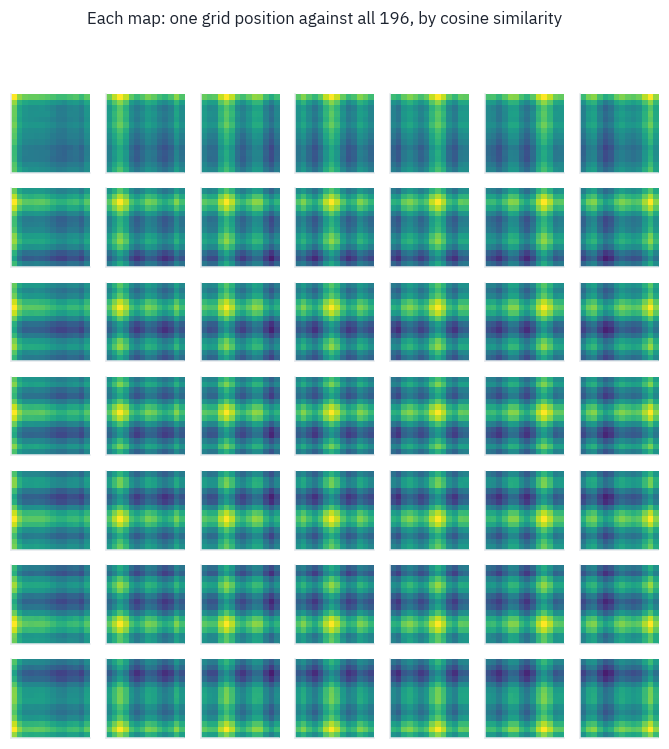
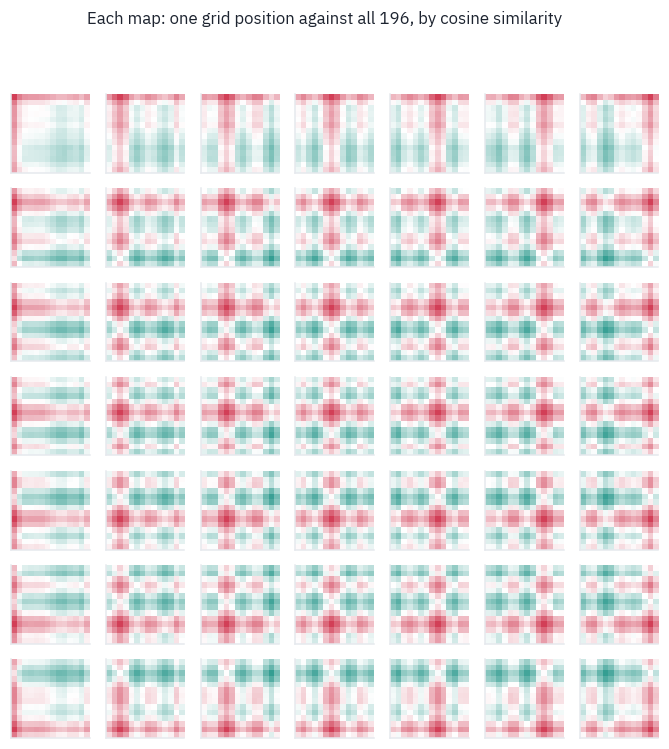
Lessons 9 and 11 with their reruns: every map in the course's colours, the memory and EuroSAT tables labelled; lesson 9's cover plates restored

diff --git a/_posts/2026-11-09-transformer-architectures-11-vit.md b/_posts/2026-11-09-transformer-architectures-11-vit.md
@@ -82,6 +82,7 @@ import time
 import urllib.request
 
 import matplotlib.pyplot as plt
+from matplotlib.colors import LinearSegmentedColormap, to_rgb
 import numpy as np
 import pandas as pd
 import torch
@@ -170,7 +171,7 @@ axes[0].imshow(photos["bear"])
 axes[0].set_title(f"original, {photos['bear'].width}×{photos['bear'].height}", fontsize=10)
 axes[1].imshow((x.permute(1, 2, 0) * STD + MEAN).clamp(0, 1))
 axes[1].set_title("resized to 224×224", fontsize=10)
-for channel, color in zip(range(3), ["#D23F57", "#0F8C7E", "#4C6FD8"]):
+for channel, color in zip(range(3), [COLORS["dec"], COLORS["enc"], COLORS["att"]]):
     axes[2].hist(
         x[channel].flatten(), bins=60, color=color, alpha=0.6, label="RGB"[channel]
     )
@@ -270,7 +271,8 @@ ax.imshow(tile, interpolation="nearest")
 ax.set_title(f"patch {k}: row {row}, column {col}", fontsize=10)
 ax.axis("off")
 ax = fig.add_axes([0.2, 0.25, 0.79, 0.5])
-ax.imshow(patches[k][None], aspect="auto", cmap="gray", interpolation="nearest")
+greys = LinearSegmentedColormap.from_list("greys", [COLORS["ink"], COLORS["card"]])
+ax.imshow(patches[k][None], aspect="auto", cmap=greys, interpolation="nearest")
 for edge in [256, 512]:
     ax.axvline(edge - 0.5, color=COLORS["dec"], linewidth=1.5)
 ax.set_yticks([])
@@ -354,9 +356,12 @@ sequence = sequence + positions[0]
 print("class token:", tuple(cls_token.shape), " positions:", tuple(positions.shape))
 print("the sequence the encoder reads:", tuple(sequence.shape))
 
+# negative numbers in teal, positive in rose, zero white
+ends = [COLORS["enc"], COLORS["card"], COLORS["dec"]]
+signed = LinearSegmentedColormap.from_list("signed", ends)
 fig, ax = plt.subplots(figsize=(11, 2.6))
 ax.imshow(
-    sequence.T[:96], aspect="auto", cmap="RdBu_r", vmin=-3, vmax=3, interpolation="nearest"
+    sequence.T[:96], aspect="auto", cmap=signed, vmin=-3, vmax=3, interpolation="nearest"
 )
 ax.set_xlabel("position in the sequence: 0 is the class token, 1 to 196 the patches")
 ax.set_ylabel("first 96 of 768")
@@ -616,7 +621,7 @@ fig, axes = plt.subplots(len(picked), len(picked), figsize=(7.6, 7.6))
 for a, i in enumerate(picked):
     for b, j in enumerate(picked):
         axes[a, b].imshow(
-            similarity[i, j], cmap="viridis", vmin=-1, vmax=1, interpolation="nearest"
+            similarity[i, j], cmap=signed, vmin=-1, vmax=1, interpolation="nearest"
         )
         axes[a, b].set_xticks([])
         axes[a, b].set_yticks([])
@@ -628,7 +633,7 @@ plt.show()
 
 <img class="tfs-output" src="/assets/posts/arch/11/output-08.png" alt="Output of the code above" loading="lazy">
 
-Every map has a bright spot exactly where its position is, a glow around it, and bright bands along its own row and column.
+Every map is strongest exactly where its position is, with a halo around it and bands of rose along its own row and column.
 
 The model rediscovered the two-dimensional grid from a one-dimensional list of 196 slots, simply because knowing which patches are neighbours, and which share a row or a column, helps it classify. The ViT paper tried position embeddings designed for two dimensions and found no gain; this picture is why.
 
@@ -689,12 +694,15 @@ for block in vit.blocks:
     block.attn.keep = False
 maps = rollout[:, 0, 1:].reshape(n, grid, grid)
 
+violet = to_rgb(COLORS["att"])
+# from clear to violet, laid over the photo
+glow = LinearSegmentedColormap.from_list("glow", [(*violet, 0.0), (*violet, 0.9)])
 fig, axes = plt.subplots(1, n, figsize=(13, 2.9))
 for k, photo in enumerate(photos.values()):
     heat = (maps[k] / maps[k].max()).numpy()
-    axes[k].imshow(photo.resize((SIZE, SIZE)))
+    axes[k].imshow(photo.resize((SIZE, SIZE)).convert("L"), cmap=greys, alpha=0.75)
     axes[k].imshow(
-        heat, cmap="magma", alpha=0.55, extent=(0, SIZE, SIZE, 0), interpolation="bilinear"
+        heat, cmap=glow, extent=(0, SIZE, SIZE, 0), interpolation="bilinear"
     )
     axes[k].set_title(labels[ours[k].argmax().item()], fontsize=10)
     axes[k].axis("off")
@@ -703,7 +711,7 @@ plt.show()
 
 <img class="tfs-output" src="/assets/posts/arch/11/output-10.png" alt="Output of the code above" loading="lazy">
 
-The bright regions are the bear's head and the fish, the shuttle's nose rather than its plume, the orca's body, the hummingbird. The model was never told where the objects are; its answer simply rests on them.
+The violet regions are the bear's head and the fish, the shuttle's nose rather than its plume, the orca's body, the hummingbird. The model was never told where the objects are; its answer simply rests on them.
 
 Rollout is a rough tool, a product of averages that ignores the MLPs, but it is cheap and often right about where to look.
 
@@ -831,13 +839,14 @@ print("one map per head:", tuple(heads.shape))
 one map per head: (5, 6, 28, 28)</code></pre>
 
 ```python
+shades = LinearSegmentedColormap.from_list("shades", [COLORS["card"], COLORS["att"]])
 show = ["bear", "shuttle", "orca", "hummingbird"]
 fig, axes = plt.subplots(len(show), heads.shape[1] + 1, figsize=(13, 2.1 * len(show)))
 for r, name in enumerate(show):
     k = list(photos).index(name)
     axes[r, 0].imshow(photos[name].resize((SIZE, SIZE)))
     for h in range(heads.shape[1]):
-        axes[r, h + 1].imshow(heads[k, h], cmap="inferno", interpolation="nearest")
+        axes[r, h + 1].imshow(heads[k, h], cmap=shades, interpolation="nearest")
         if r == 0:
             axes[r, h + 1].set_title(f"head {h}", fontsize=10)
     for ax in axes[r]:
@@ -1128,7 +1137,7 @@ accuracy.columns = [f"{n:,} labels per class" for n in accuracy.columns]
 table(accuracy.reset_index(), digits=3)
 ```
 
-<div class="tfs-table-wrap"><table class="tfs-table" style="border-collapse:collapse;font-family:'IBM Plex Sans', -apple-system, 'Segoe UI', Roboto, Helvetica, Arial, sans-serif;font-size:13.5px;line-height:1.45;margin:4px 0 8px;"><thead><tr><th style="padding:7px 14px;border-bottom:2px solid #B9C0CB;font-weight:600;color:#5B6575;font-size:12px;letter-spacing:0.02em;text-align:left;">learner</th><th style="padding:7px 14px;border-bottom:2px solid #B9C0CB;font-weight:600;color:#5B6575;font-size:12px;letter-spacing:0.02em;text-align:right;">10 labels per class</th><th style="padding:7px 14px;border-bottom:2px solid #B9C0CB;font-weight:600;color:#5B6575;font-size:12px;letter-spacing:0.02em;text-align:right;">100 labels per class</th><th style="padding:7px 14px;border-bottom:2px solid #B9C0CB;font-weight:600;color:#5B6575;font-size:12px;letter-spacing:0.02em;text-align:right;">1,620 labels per class</th></tr></thead><tbody><tr><td style="padding:7px 14px;border-bottom:1px solid #E6E9EE;vertical-align:top;text-align:left;max-width:460px;white-space:normal;">ViT-B/16 pretrained</td><td style="padding:7px 14px;border-bottom:1px solid #E6E9EE;vertical-align:top;text-align:right;font-variant-numeric:tabular-nums;max-width:460px;white-space:normal;">0.914</td><td style="padding:7px 14px;border-bottom:1px solid #E6E9EE;vertical-align:top;text-align:right;font-variant-numeric:tabular-nums;max-width:460px;white-space:normal;">0.970</td><td style="padding:7px 14px;border-bottom:1px solid #E6E9EE;vertical-align:top;text-align:right;font-variant-numeric:tabular-nums;max-width:460px;white-space:normal;">0.988</td></tr><tr><td style="padding:7px 14px;border-bottom:1px solid #E6E9EE;vertical-align:top;text-align:left;max-width:460px;white-space:normal;">small ViT</td><td style="padding:7px 14px;border-bottom:1px solid #E6E9EE;vertical-align:top;text-align:right;font-variant-numeric:tabular-nums;max-width:460px;white-space:normal;">0.586</td><td style="padding:7px 14px;border-bottom:1px solid #E6E9EE;vertical-align:top;text-align:right;font-variant-numeric:tabular-nums;max-width:460px;white-space:normal;">0.815</td><td style="padding:7px 14px;border-bottom:1px solid #E6E9EE;vertical-align:top;text-align:right;font-variant-numeric:tabular-nums;max-width:460px;white-space:normal;">0.932</td></tr><tr><td style="padding:7px 14px;border-bottom:1px solid #E6E9EE;vertical-align:top;text-align:left;max-width:460px;white-space:normal;">small CNN</td><td style="padding:7px 14px;border-bottom:1px solid #E6E9EE;vertical-align:top;text-align:right;font-variant-numeric:tabular-nums;max-width:460px;white-space:normal;">0.740</td><td style="padding:7px 14px;border-bottom:1px solid #E6E9EE;vertical-align:top;text-align:right;font-variant-numeric:tabular-nums;max-width:460px;white-space:normal;">0.920</td><td style="padding:7px 14px;border-bottom:1px solid #E6E9EE;vertical-align:top;text-align:right;font-variant-numeric:tabular-nums;max-width:460px;white-space:normal;">0.979</td></tr><tr><td style="padding:7px 14px;border-bottom:1px solid #E6E9EE;vertical-align:top;text-align:left;max-width:460px;white-space:normal;">DINOv2 + linear probe</td><td style="padding:7px 14px;border-bottom:1px solid #E6E9EE;vertical-align:top;text-align:right;font-variant-numeric:tabular-nums;max-width:460px;white-space:normal;">0.845</td><td style="padding:7px 14px;border-bottom:1px solid #E6E9EE;vertical-align:top;text-align:right;font-variant-numeric:tabular-nums;max-width:460px;white-space:normal;">0.926</td><td style="padding:7px 14px;border-bottom:1px solid #E6E9EE;vertical-align:top;text-align:right;font-variant-numeric:tabular-nums;max-width:460px;white-space:normal;">0.966</td></tr></tbody></table></div>
+<div class="tfs-table-wrap"><table class="tfs-table" style="border-collapse:collapse;font-family:'IBM Plex Sans', -apple-system, 'Segoe UI', Roboto, Helvetica, Arial, sans-serif;font-size:13.5px;line-height:1.45;margin:4px 0 8px;"><thead><tr><th style="padding:7px 14px;border-bottom:2px solid #B9C0CB;font-weight:600;color:#5B6575;font-size:12px;letter-spacing:0.02em;text-align:left;">learner</th><th style="padding:7px 14px;border-bottom:2px solid #B9C0CB;font-weight:600;color:#5B6575;font-size:12px;letter-spacing:0.02em;text-align:right;">10 labels per class</th><th style="padding:7px 14px;border-bottom:2px solid #B9C0CB;font-weight:600;color:#5B6575;font-size:12px;letter-spacing:0.02em;text-align:right;">100 labels per class</th><th style="padding:7px 14px;border-bottom:2px solid #B9C0CB;font-weight:600;color:#5B6575;font-size:12px;letter-spacing:0.02em;text-align:right;">1,620 labels per class</th></tr></thead><tbody><tr><td style="padding:7px 14px;border-bottom:1px solid #E6E9EE;vertical-align:top;text-align:left;max-width:460px;white-space:normal;">ViT-B/16 pretrained</td><td style="padding:7px 14px;border-bottom:1px solid #E6E9EE;vertical-align:top;text-align:right;font-variant-numeric:tabular-nums;max-width:460px;white-space:normal;">0.916</td><td style="padding:7px 14px;border-bottom:1px solid #E6E9EE;vertical-align:top;text-align:right;font-variant-numeric:tabular-nums;max-width:460px;white-space:normal;">0.970</td><td style="padding:7px 14px;border-bottom:1px solid #E6E9EE;vertical-align:top;text-align:right;font-variant-numeric:tabular-nums;max-width:460px;white-space:normal;">0.988</td></tr><tr><td style="padding:7px 14px;border-bottom:1px solid #E6E9EE;vertical-align:top;text-align:left;max-width:460px;white-space:normal;">small ViT</td><td style="padding:7px 14px;border-bottom:1px solid #E6E9EE;vertical-align:top;text-align:right;font-variant-numeric:tabular-nums;max-width:460px;white-space:normal;">0.586</td><td style="padding:7px 14px;border-bottom:1px solid #E6E9EE;vertical-align:top;text-align:right;font-variant-numeric:tabular-nums;max-width:460px;white-space:normal;">0.815</td><td style="padding:7px 14px;border-bottom:1px solid #E6E9EE;vertical-align:top;text-align:right;font-variant-numeric:tabular-nums;max-width:460px;white-space:normal;">0.932</td></tr><tr><td style="padding:7px 14px;border-bottom:1px solid #E6E9EE;vertical-align:top;text-align:left;max-width:460px;white-space:normal;">small CNN</td><td style="padding:7px 14px;border-bottom:1px solid #E6E9EE;vertical-align:top;text-align:right;font-variant-numeric:tabular-nums;max-width:460px;white-space:normal;">0.740</td><td style="padding:7px 14px;border-bottom:1px solid #E6E9EE;vertical-align:top;text-align:right;font-variant-numeric:tabular-nums;max-width:460px;white-space:normal;">0.920</td><td style="padding:7px 14px;border-bottom:1px solid #E6E9EE;vertical-align:top;text-align:right;font-variant-numeric:tabular-nums;max-width:460px;white-space:normal;">0.979</td></tr><tr><td style="padding:7px 14px;border-bottom:1px solid #E6E9EE;vertical-align:top;text-align:left;max-width:460px;white-space:normal;">DINOv2 + linear probe</td><td style="padding:7px 14px;border-bottom:1px solid #E6E9EE;vertical-align:top;text-align:right;font-variant-numeric:tabular-nums;max-width:460px;white-space:normal;">0.845</td><td style="padding:7px 14px;border-bottom:1px solid #E6E9EE;vertical-align:top;text-align:right;font-variant-numeric:tabular-nums;max-width:460px;white-space:normal;">0.926</td><td style="padding:7px 14px;border-bottom:1px solid #E6E9EE;vertical-align:top;text-align:right;font-variant-numeric:tabular-nums;max-width:460px;white-space:normal;">0.966</td></tr></tbody></table></div>
 
 ```python
 fig, ax = plt.subplots(figsize=(7.2, 3.8))
@@ -1174,7 +1183,7 @@ for t, p in zip(test_labels.tolist(), best.tolist()):
     confusion[t, p] += 1
 confusion = confusion / confusion.sum(1, keepdim=True)
 fig, ax = plt.subplots(figsize=(6.2, 5.4))
-ax.imshow(confusion, cmap="Purples", vmin=0, vmax=1)
+ax.imshow(confusion, cmap=shades, vmin=0, vmax=1)
 ax.set_xticks(range(10), classes, rotation=60, fontsize=8)
 ax.set_yticks(range(10), classes, fontsize=8)
 ax.set_xlabel("predicted")
@@ -1219,7 +1228,7 @@ plt.show()
 
 The mistakes are few, and many of them involve herbaceous vegetation, taken for pasture, for crops or for forest: scrub, meadow and young trees are the same green-brown texture at this scale.
 
-Another kind is a tile with a road across it: a river, a factory or a suburb with a highway through it becomes a highway. Look at the tiles and you will hesitate too; at 10 metres a pixel, an orchard and a field of wheat can look the same.
+Annual and permanent crops are taken for each other too, and now and then a tile with a road across it is called a highway. Look at the tiles and you will hesitate too; at 10 metres a pixel, an orchard and a field of wheat can look the same.
 
 ## 8. Where the ViT is today
 

diff --git a/_posts/2026-11-09-transformer-architectures-09-long.md b/_posts/2026-11-09-transformer-architectures-09-long.md
@@ -84,6 +84,7 @@ import time
 from pathlib import Path
 
 import matplotlib.pyplot as plt
+from matplotlib.colors import LinearSegmentedColormap
 import numpy as np
 import pandas as pd
 import torch
@@ -776,7 +777,7 @@ STRETCHES["YaRN"] = yarn
 STRETCHES["YaRN, no temperature"] = yarn_cold
 ```
 
-Back to the three clocks, now with YaRN's hand in green: the fast pair keeps its angle, the slow pair's hand returns
+Back to the three clocks, now with YaRN's hand in teal: the fast pair keeps its angle, the slow pair's hand returns
 into the arc the model knows.
 
 ```python
@@ -1042,7 +1043,8 @@ for method in ["none", "PI", "NTK", "dynamic NTK", "YaRN"]:
 
 heat = pd.DataFrame(passkey, index=[f"{n:,}" for n in passkey_lengths]).T
 fig, ax = plt.subplots(figsize=(6.6, 3.2))
-ax.imshow(heat.values, cmap="Greens", vmin=0, vmax=1, aspect="auto")
+teal = LinearSegmentedColormap.from_list("teal", [COLORS["card"], COLORS["enc"]])
+ax.imshow(heat.values, cmap=teal, vmin=0, vmax=1, aspect="auto")
 ax.set_xticks(range(len(heat.columns)), heat.columns)
 ax.set_yticks(range(len(heat.index)), heat.index)
 for i in range(heat.shape[0]):
@@ -1424,7 +1426,7 @@ for setting in ["as trained", "YaRN 4×"]:
 
 fig, axes = plt.subplots(1, 2, figsize=(8.6, 3.2), sharey=True)
 for ax, (setting, grid) in zip(axes, found.items()):
-    ax.imshow(grid, cmap="Greens", vmin=0, vmax=1, aspect="auto")
+    ax.imshow(grid, cmap=teal, vmin=0, vmax=1, aspect="auto")
     ax.set_xticks(range(len(needle_lengths)), [f"{n // 1024}k" for n in needle_lengths])
     ax.set_yticks(range(len(depths)), [f"{d:.0%}" for d in depths])
     ax.set_title(f"Qwen3-4B, {setting}")
@@ -1435,7 +1437,7 @@ plt.show()
 
 <img class="tfs-output" src="/assets/posts/arch/09/output-09.png" alt="Output of the code above" loading="lazy">
 
-Green is found, white is missed.
+Teal is found, white is missed.
 
 As trained, Qwen3-4B finds the needle at every depth up to 48k tokens, past the 32k it was trained on; at 64k it
 finds it only near the end of the text, close to the question. With YaRN it finds it everywhere.
